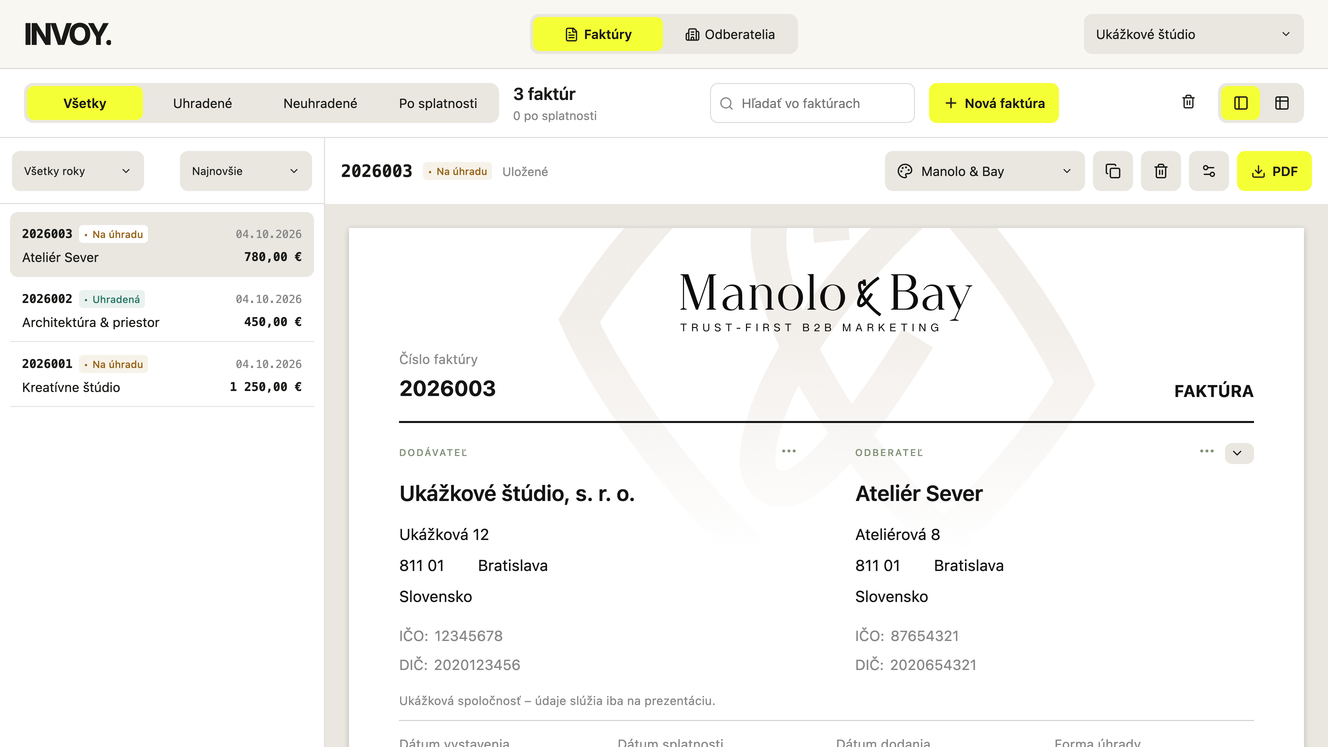
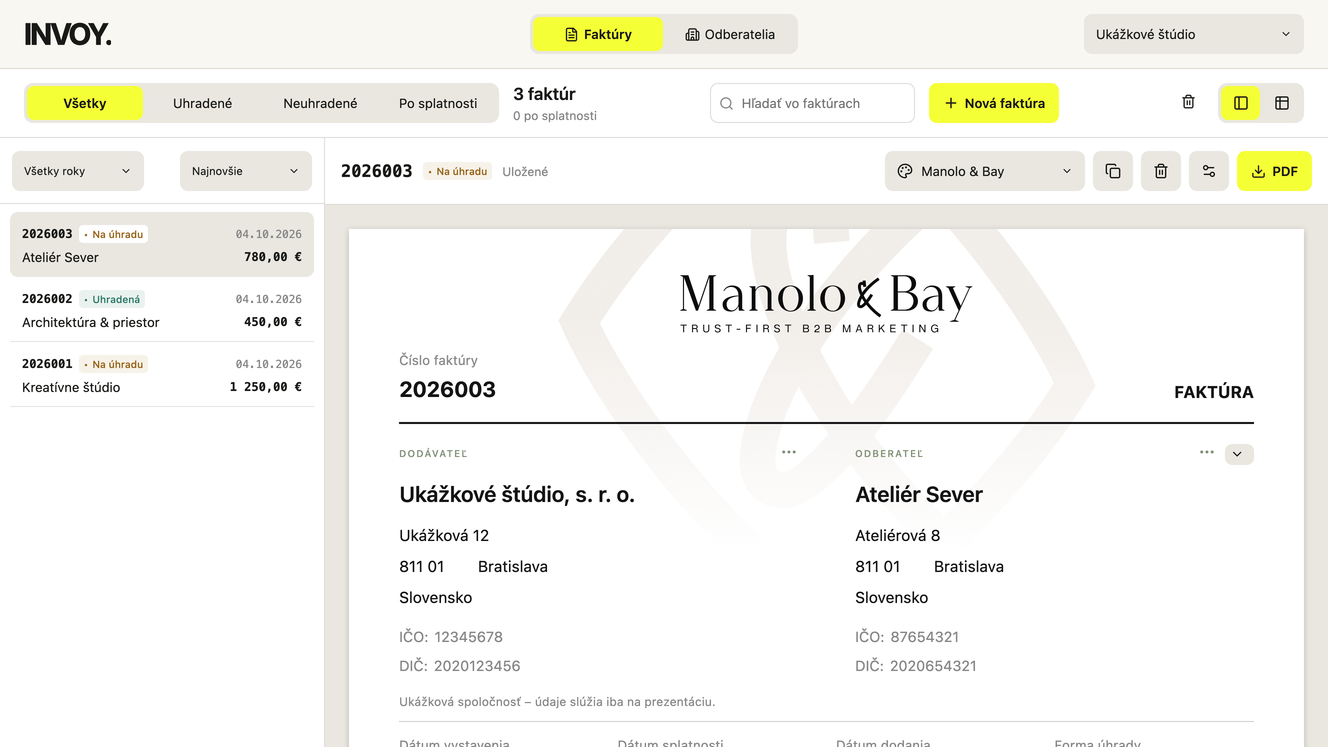
Oddeliť faktúru jemnou čiarou od hornej lišty na webe aj Macu

diff --git a/Sources/INVOY/Brand.swift b/Sources/INVOY/Brand.swift
@@ -8,6 +8,7 @@ enum InvoyBrand {
     static let ink = Color(red: 25 / 255, green: 26 / 255, blue: 23 / 255)
     static let canvas = Color(red: 233 / 255, green: 231 / 255, blue: 224 / 255)
     static let surface = Color(red: 248 / 255, green: 247 / 255, blue: 242 / 255)
+    static let line = Color(red: 220 / 255, green: 218 / 255, blue: 210 / 255)
 
     static func image(_ name: String) -> NSImage {
         let bundled = Bundle.main.url(forResource: name, withExtension: "svg")

diff --git a/Sources/INVOY/Editors.swift b/Sources/INVOY/Editors.swift
@@ -104,7 +104,7 @@ struct InvoiceEditor: View {
                     HStack(spacing: 8) { Spacer(minLength: 0); editorActions }
                 }
             }.padding(.horizontal, 16).padding(.vertical, 13)
-            Divider()
+            InvoyBrand.line.frame(height: 1).accessibilityHidden(true)
             InvoicePaperCanvas(draft: draft)
             if let message = draft.message {
                 Divider()

diff --git a/web/src/app-brand.css b/web/src/app-brand.css
@@ -503,6 +503,7 @@
 /* Responsive workspace: controls wrap before the invoice loses usable space. */
 .original-editor-toolbar {
   flex-wrap: wrap;
+  border-bottom: 1px solid var(--invoy-brand-line);
 }
 .original-editor-toolbar .toolbar-actions {
   flex-shrink: 0;
